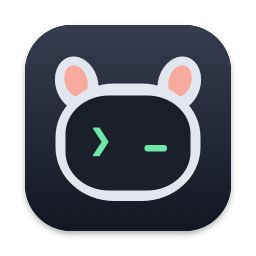
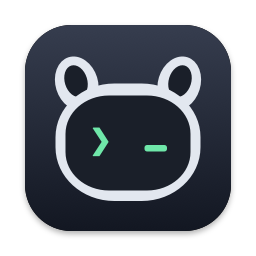
AIminal 0.14.0-beta

Changed region(s): [[0.6562, 0.25, 0.75, 0.375], [0.25, 0.25, 0.3438, 0.375]]

diff --git a/README.ko.md b/README.ko.md
@@ -32,7 +32,7 @@
 | ⬇⬆ **다운로드와 업로드** | 오른쪽 클릭으로 파일·폴더를 원하는 폴더에 내려받고, Finder에서 끌어다 올리기. 속도·지난 시간·남은 시간·끝 예상 시각이 보이는 진행률과 취소 버튼 |
 | 🪟 **칸마다 탭 줄이 있는 나란히 보기** | ⌘D, 나누기 버튼, 또는 탭을 다른 칸으로 드래그. 좌우 또는 위아래, 최대 여섯 칸, 가름선을 끌어 크기 조절. 두 서버의 Claude를 동시에 지켜보기 |
 | ⏱ **시계와 머신 상태** | 툴바에 시각·날짜·이 Mac의 CPU·메모리·디스크, 서버 화면에는 그 서버의 부하·메모리·디스크·GPU별 사용률과 온도 |
-| 🔍 **클릭한 패널만 확대** | ⌘= / ⌘-가 마지막에 클릭한 터미널·칸·글상자·편집기·파일 트리만 키우고 줄임 |
+| 🔍 **클릭한 패널만, 또는 앱 전체 확대** | ⌘= / ⌘-가 마지막에 클릭한 터미널·칸·글상자·편집기·파일 트리만 키우고 줄임. ⌃⌘= / ⌃⌘-는 앱 화면 전체를 크게·작게 (85–150%) |
 | 🐳 **docker 컨테이너도 일급** | 컨테이너에 대신 들어가고, 그 안의 tmux 세션을 찾아 탭으로 열고, 안에 새 세션도 만들어줌 |
 | 💾 **지금 구성을 프리셋으로** | 버튼 하나로 이 Mac·서버·컨테이너에 떠 있는 세션을 폴더와 `claude`까지 채워 프리셋으로. 자동 시작으로 한 번에 다시 띄움 |
 | 🔐 **서버에 부담 없는 SSH** | `~/.ssh/config`를 그대로 사용, 키·비밀번호 모두, 머신당 연결 하나를 공유, 잠자기·네트워크 끊김 뒤 저절로 다시 연결. 서버에는 tmux 말고 설치할 것 없음 |
@@ -121,7 +121,7 @@ AIminal은 그래서 만든 앱입니다:
 - **홈**: 세션마다 카드, 실시간 미리보기, 지금 돌아가는 것의 요약이 있는 시작 화면
 - **내장 터미널**: 어떤 tmux 세션이든 AIminal 안의 진짜 터미널에서 탭으로 열기. 탭마다 어느 머신·컨테이너인지 표시되고 GPU로 그립니다. tmux 없는 일반 터미널도 가능(⌘T)
 - **명확한 닫기 동작**: 탭 닫기(분리)는 세션을 계속 돌리고, Claude 종료(/exit)는 Claude만 끝내고, 세션 끝내기는 전부 끝냄. 머신이 끊기면 "세션 끝남"이 아니라 **연결이 끊겼습니다**와 **다시 연결**
-- **키보드 우선**: ⌘를 누르고 있으면 모든 단축키가 보이고, ⌘K로 세션·머신·명령 어디로든, ⌘1…⌘9로 탭, ⌥⌘← / ⌥⌘→로 칸 사이, ⌘S로 지금 고치는 편집기 저장(⌥⌘S는 모두 저장), ⌘F로 편집기에서 찾기, ⌘= / ⌘-로 마지막에 클릭한 패널(터미널·글상자·편집기·파일 트리) 확대·축소
+- **키보드 우선**: ⌘를 누르고 있으면 모든 단축키가 보이고, ⌘K로 세션·머신·명령 어디로든, ⌘1…⌘9로 탭, ⌥⌘← / ⌥⌘→로 칸 사이, ⌘S로 지금 고치는 편집기 저장(⌥⌘S는 모두 저장), ⌘F로 편집기에서 찾기, ⌘= / ⌘-로 마지막에 클릭한 패널(터미널·글상자·편집기·파일 트리) 확대·축소, ⌃⌘= / ⌃⌘-로 화면 전체 크기. 메뉴 막대의 **세션**·**머신** 메뉴에 오른쪽 클릭 메뉴와 같은 동작이 다 있음
 - **Claude Code 인식**: 어느 세션이 Claude(또는 `happy claude`)를 돌리는지, 작업 중인지 대기 중인지, docker 컨테이너 안이라도 보임. Claude가 끝나거나, 권한 확인을 기다리거나(선택 기능 Claude Code 훅, 머신마다 한 번 클릭), 사용 한도에 걸리면(풀리는 시간과 함께) 알림, Claude마다 어떤 모델을 쓰는지(**Claude · Fable 5.1**)와 머신마다 어떤 계정·플랜으로 로그인돼 있는지 표시, **Claude 종료(/exit)**로 깔끔하게 끝내기
 - **머신**: 이 Mac과 `~/.ssh/config`의 머신들이 사이드바에 나란히. 연결(키 또는 비밀번호)하면 각 머신의 tmux 세션을 보고 열 수 있고, 머신 추가·편집도 앱 안에서. 머신당 SSH 세션 하나만 유지하므로 서버에는 로그인 한 번으로 보임. 연결 오류에는 할 일을 알려 주고, 잠자기·Wi-Fi 끊김 뒤에는 저절로 다시 연결
 - **docker 컨테이너**: tmux는 서버에 두고 작업은 컨테이너 안에서. 세션이나 프리셋에 컨테이너를 지정하면 AIminal이 `docker exec`로 대신 들어감(폴더와 시작 명령까지). 컨테이너 *안에서* 도는 tmux 세션도 찾아 `docker exec -it <컨테이너> tmux attach`로 열어주고, 사이드바·홈·머신 화면에서 컨테이너 안에 새 tmux 세션을 만들 수 있음. 머신 화면에 실행 중인 컨테이너 목록
@@ -135,7 +135,7 @@ AIminal은 그래서 만든 앱입니다:
 - **프리셋과 자동 시작**: 머신·폴더·시작 명령을 저장해 두고, 로그인 때 세션을 띄우기. 떠 있는 세션(이 Mac·SSH·컨테이너)을 한 번에 프리셋으로. iCloud Drive에 Mac마다 파일로 두고 다른 Mac의 프리셋을 한 번에 읽어 오기
 - **자동 업데이트**: 새 버전을 확인해 클릭 한 번에 업데이트. tmux 세션은 계속 돌아감
 - **시계와 상태**: 툴바에 시각·날짜·이 Mac의 CPU·메모리·디스크, 서버 화면에 부하·메모리·디스크·GPU(사용률·온도)
-- **메뉴 바와 Dock**, 영어·한국어 UI
+- **메뉴 바와 Dock**, 영어·한국어 UI, 다크·라이트, 시스템 강조색과 상관없이 늘 같은 초록 강조색
 
 ## 설치
 

diff --git a/README.md b/README.md
@@ -32,7 +32,7 @@
 | ⬇⬆ **Download and upload** | Right-click to download a file or folder to any folder you pick, drag from Finder to upload. A progress bar with speed, elapsed time, time left and ETA, and a Cancel button |
 | 🪟 **Panes, each with its own tabs** | ⌘D, the split button, or drag a tab to another pane. Side by side or stacked, up to six panes, drag the dividers to resize. Watch Claude on two servers at once |
 | ⏱ **Clock and machine stats** | Time, date, this Mac's CPU, memory and disk in the toolbar; each server's load, memory, disk and every GPU's utilization and temperature on its machine page |
-| 🔍 **Zoom the panel you click** | ⌘= / ⌘- grow or shrink just the terminal, pane, message box, editor or file tree you clicked last |
+| 🔍 **Zoom the panel you click, or the whole app** | ⌘= / ⌘- grow or shrink just the terminal, pane, message box, editor or file tree you clicked last. ⌃⌘= / ⌃⌘- make the whole interface bigger or smaller (85–150%) |
 | 🐳 **Docker containers, first class** | Enter containers for you, find the tmux sessions inside them, open them in a tab, and start new ones inside |
 | 💾 **Save your setup as presets** | One button turns the sessions you have running, on your Mac, servers and containers, into presets with their folder and `claude` filled in. Autostart brings them all back |
 | 🔐 **Server-friendly SSH** | Uses your `~/.ssh/config`, keys or passwords, one shared connection per machine, and reconnects by itself after sleep or a dropped network. Nothing to install on the server beyond tmux |
@@ -121,7 +121,7 @@ AIminal is the app I wanted for that:
 - **Home**: a start screen with a card for every session, live previews, and a summary of what's running
 - **Built-in terminal**: open any tmux session in a real terminal inside AIminal, with a tab for each one that says which machine or container it is on, drawn on the GPU. Plain terminals without tmux work too (⌘T)
 - **Clear close actions**: Close Tab (Detach) keeps the session running, Quit Claude (/exit) ends only Claude, End Session ends it all. A dropped machine shows **Lost connection** with **Reconnect**, not "session ended"
-- **Keyboard first**: hold ⌘ to see every shortcut, ⌘K to jump to any session, machine or command, ⌘1…⌘9 for tabs, ⌥⌘← / ⌥⌘→ between panes, ⌘S saves the editor you're in (⌥⌘S saves all), ⌘F finds in it, ⌘= / ⌘- to zoom whichever panel you clicked last (a terminal, the message box, an editor, the file tree)
+- **Keyboard first**: hold ⌘ to see every shortcut, ⌘K to jump to any session, machine or command, ⌘1…⌘9 for tabs, ⌥⌘← / ⌥⌘→ between panes, ⌘S saves the editor you're in (⌥⌘S saves all), ⌘F finds in it, ⌘= / ⌘- to zoom whichever panel you clicked last (a terminal, the message box, an editor, the file tree), ⌃⌘= / ⌃⌘- to scale the whole interface. **Session** and **Machine** menus in the menu bar do everything the right-click menus do
 - **Claude Code aware**: see which sessions run Claude (or `happy claude`) and whether it is working or waiting, even inside a docker container. Get a notification when Claude finishes, waits for your permission (with optional Claude Code hooks, one click per machine) or hits its usage limit (with the reset time), see which model each Claude is using (**Claude · Fable 5.1**) and which account and plan it is signed in with on each machine, and quit it cleanly with **Quit Claude (/exit)**
 - **Machines**: this Mac and your `~/.ssh/config` machines side by side in the sidebar. Connect (key or password) to see and open each machine's tmux sessions, and add or edit machines in the app. AIminal keeps one SSH session per machine, so your server sees a single login. Connection errors come with a hint, and machines reconnect by themselves after sleep or a Wi-Fi drop
 - **Docker containers**: keep tmux on the server and work inside a container. A session or preset can name a container, and AIminal runs `docker exec` into it for you (with your folder and startup command). AIminal also finds the tmux sessions running *inside* each container, opens them with `docker exec -it <container> tmux attach`, and starts new ones inside the container from the sidebar, Home or the machine page. Each machine page lists its running containers
@@ -135,7 +135,7 @@ AIminal is the app I wanted for that:
 - **Presets and autostart**: save a machine, folder and startup command, and bring your sessions up at login. Turn every running session (local, SSH, container) into presets at once. Keep them in iCloud Drive, one file per Mac, and load another Mac's presets with a click
 - **Automatic updates**: AIminal checks for new versions and updates itself in one click. Your tmux sessions keep running
 - **Clock and stats**: time, date, CPU, memory and disk of this Mac in the toolbar; load, memory, disk and GPUs (utilization, temperature) on each server's page
-- **Menu bar and Dock**, English and Korean UI
+- **Menu bar and Dock**, English and Korean UI, dark and light, with a fixed green accent that doesn't change with your system accent color
 
 ## Install
 

diff --git a/GUIDE.ko.md b/GUIDE.ko.md
@@ -280,6 +280,7 @@ docker exec -it -w <폴더> <컨테이너> bash -lc '<명령>; exec bash -l'
 | ⌘W | 지금 탭 닫기 (분리) |
 | ⌘N / ⌘T / ⇧⌘N | 새 tmux 세션 / 새 터미널(tmux 없이) / 새 프리셋 |
 | ⌘= / ⌘- / ⌘0 | 마지막에 클릭한 패널 확대 / 축소 / 기본 크기 |
+| ⌃⌘= / ⌃⌘- / ⌃⌘0 | 앱 화면 전체 크게 / 작게 / 기본 크기 |
 | ⇧⌘E | 파일 트리 보이기·숨기기 |
 | ⇧⌘. | 파일 트리의 숨김 파일 보이기·숨기기 |
 | F2 / ⌘⌫ | 파일 트리에서 고른 항목 이름 바꾸기 / 삭제 |
@@ -296,11 +297,13 @@ docker exec -it -w <폴더> <컨테이너> bash -lc '<명령>; exec bash -l'
 
 메뉴바의 **이동** 메뉴에도 있고, 터미널을 쓰는 중에도 동작합니다.
 
+**세션**·**머신** 메뉴는 사이드바에서 고른 것에 대해 오른쪽 클릭 메뉴와 같은 일을 합니다(다른 터미널에서 열기, 이름 바꾸기, 프리셋으로 저장, Claude 종료, 세션 종료 / 연결, 연결 끊기, 머신 편집·삭제). **보기** 메뉴에는 홈의 모두 펼치기·모두 접기·자동 시작 프리셋 시작이 있습니다.
+
 ## 설정
 
 ⌘,로 엽니다.
 
-- **일반**: 언어(English, 한국어), Dock 아이콘, 툴바의 시계·상태 표시 / **터미널** 묶음(세션을 누르면 열 곳, 터미널 글꼴 크기, 새 탭에서 글상자 펼쳐 두기, 보낸 뒤에도 글상자에서 계속 쓰기, **스니펫 편집…**) / 알림(macOS가 막고 있으면 경고) / 업데이트 / 시작(로그인 시 실행, 자동 시작 프리셋).
+- **일반**: 언어(English, 한국어), **화면 크기**(85–150%, ⌃⌘= / ⌃⌘-로도), Dock 아이콘, 툴바의 시계·상태 표시 / **터미널** 묶음(세션을 누르면 열 곳, 터미널 글꼴 크기, 새 탭에서 글상자 펼쳐 두기, 보낸 뒤에도 글상자에서 계속 쓰기, **스니펫 편집…**) / 알림(macOS가 막고 있으면 경고) / 업데이트 / 시작(로그인 시 실행, 자동 시작 프리셋).
 - **외부 터미널**: 기본 외부 터미널(iTerm2, Terminal, cmux, Ghostty, WezTerm, kitty, Alacritty)과 옵션. cmux는 cmux 설정 → Automation에서 소켓 접근을 `password`로 바꾸고 같은 비밀번호를 여기에 넣어야 합니다.
 - **고급**: tmux 위치·버전(없으면 설치 방법), **GPU(Metal)로 터미널 그리기**(기본 켬. 세션 여러 개가 동시에 화면을 고칠 때 CPU를 훨씬 덜 씀, 터미널이 이상하게 그려지면 끄기), 로그 파일, 설정 파일, **도움말**(**문제 신고…**, 시작 화면, 이 설명서).
 

diff --git a/GUIDE.md b/GUIDE.md
@@ -280,6 +280,7 @@ Hold **⌘** for half a second to see all shortcuts; the tabs show their numbers
 | ⌘W | Close Tab (Detach) for the current tab |
 | ⌘N / ⌘T / ⇧⌘N | New tmux session / new terminal (no tmux) / new preset |
 | ⌘= / ⌘- / ⌘0 | Zoom the last-clicked panel in / out / reset |
+| ⌃⌘= / ⌃⌘- / ⌃⌘0 | Make the whole interface bigger / smaller / default size |
 | ⇧⌘E | Show or hide the file tree |
 | ⇧⌘. | Show or hide hidden files in the file tree |
 | F2 / ⌘⌫ | Rename / delete the selected item in the file tree |
@@ -296,11 +297,13 @@ Hold **⌘** for half a second to see all shortcuts; the tabs show their numbers
 
 The **Go** menu lists the navigation shortcuts. They work while the terminal has focus.
 
+The **Session** and **Machine** menus act on what you selected in the sidebar, with the same items as the right-click menus (open in another terminal, rename, save as preset, quit Claude, end the session; connect, disconnect, edit or delete a machine). **View** has Expand All, Collapse All and Start Autostart Presets for Home.
+
 ## Settings
 
 Open with ⌘,.
 
-- **General**: language (English, 한국어), Dock icon and the clock and stats in the toolbar; a **Terminal** group (where clicking a session opens it, terminal font size, opening the message box in new tabs, keeping the keyboard in the message box after sending, **Edit Snippets…**); notifications (with a warning when macOS blocks them); updates; and startup (launch at login, autostart presets).
+- **General**: language (English, 한국어), **Interface size** (85–150%, also ⌃⌘= / ⌃⌘-), Dock icon and the clock and stats in the toolbar; a **Terminal** group (where clicking a session opens it, terminal font size, opening the message box in new tabs, keeping the keyboard in the message box after sending, **Edit Snippets…**); notifications (with a warning when macOS blocks them); updates; and startup (launch at login, autostart presets).
 - **External Terminals**: your default external terminal (iTerm2, Terminal, cmux, Ghostty, WezTerm, kitty, Alacritty) and its options. For cmux, set its socket access to `password` in cmux Settings → Automation and enter the same password here.
 - **Advanced**: tmux path and version (or how to install it), **Draw terminals with the GPU (Metal)** (on by default; much less CPU when many sessions update at once, turn it off if a terminal draws incorrectly), the log file, the config file, and **Help**: **Report a Problem…**, the welcome screen and this guide.
 

diff --git a/CHANGELOG.md b/CHANGELOG.md
@@ -1,5 +1,21 @@
 # Changelog
 
+## 0.14.0-beta
+
+### Added
+
+- **Interface size.** ⌃⌘= / ⌃⌘- (and ⌃⌘0) make the whole app bigger or smaller, from 85% to 150%: text, icons and controls together. Also in Settings → General. ⌘= / ⌘- still zoom just the panel you clicked
+- **Session and Machine menus** in the menu bar, with the same items as the right-click menus for whatever is selected in the sidebar, so everything works from the keyboard. View has Expand All, Collapse All and Start Autostart Presets
+
+### Changed
+
+- **A consistent look across the app.** Confirmation dialogs (rename, delete, end session, unsaved changes, quit) are drawn in AIminal's own style, and Settings is laid out as cards with app-styled choices. Every button reacts when you point at it
+- **A fixed green accent**, the green of the icon's prompt. It no longer turns red or purple when your system accent color is set that way
+- **Easier to read in light mode.** Secondary text, status colors and badges were darkened to meet a 4.5:1 contrast ratio
+- **Nothing hides until you hover.** The Open buttons on Home and window cards, the open buttons in the menu bar list and the × on tabs are always in place
+- **The Claude badge stays still.** Working shows ✦✦ on a stronger badge and waiting a single ✦, instead of a blinking star
+- **The icon uses three colors.** The pink inside the ears is gone
+
 ## 0.13.21-beta
 
 ### Changed
